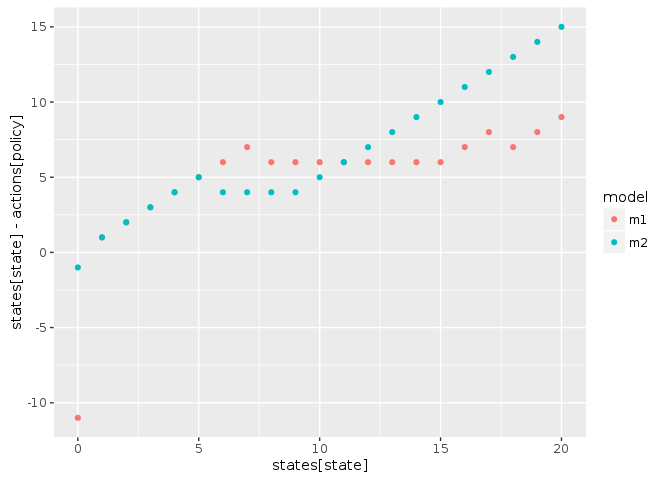
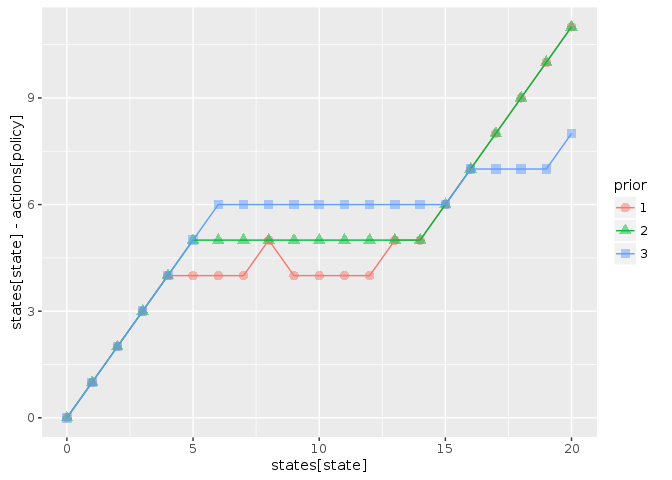
run new examples

diff --git a/inst/notebook/pomdp-learning.md b/inst/notebook/pomdp-learning.md
@@ -3,24 +3,10 @@
 
 
 ```r
-library("MDPtoolbox")
-```
-
-```
-## Loading required package: Matrix
-```
-
-```
-## Loading required package: linprog
-```
-
-```
-## Loading required package: lpSolve
-```
-
-```r
 library("appl")
+library("pomdpplus")
 library("ggplot2")
+library("tidyr")
 library("dplyr")
 ```
 
@@ -46,10 +32,6 @@ knitr::opts_chunk$set(cache = TRUE)
 ```
 
 
-```r
-source("pomdp_learning.R")
-```
-
 
 ## Problem definition
 
@@ -60,127 +42,132 @@ actions <- states
 obs <- states
 
 sigma_g <- sqrt(log(1 + 0.1 / 6)) # Scale the log-standard-deviation to result in similar variance to a uniform distribution of width 0.5
-sigma_m <- sigma_g
+sigma_m <- sigma_g 
 
 reward_fn <- function(x,h) pmin(x,h)
 discount <- 0.95
 
 
-
-Ks <-  seq(5, 20, length.out = 10)
-K_models <- lapply(Ks, function(K) 
-  function(x, h){
-     r <- 1
-     s <- pmax(x - h, 0)
-     s * exp(r * (1 - s / K) )
-  })
-
-models <- lapply(K_models, function(model) 
-    appl::fisheries_matrices(states = states, actions = actions, 
-                             observed_states = states, reward_fn = reward_fn,
-                             f = model, sigma_g = sigma_g, sigma_m = sigma_m))
+K1 <- function(x, h, r = 0.5, K = 10){
+  s <- pmax(x - h, 0)
+  s * exp(r * (1 - s / K) )
+}
 
 
-model_prior = rep(1, length(models)) / length(models)
+K2 <- function(x, h, r = 0.5, K = 15){
+  s <- pmax(x - h, 0)
+  s * exp(r * (1 - s / K) )
+}
+
+Ks <- list(K1, K2)
 ```
 
 
 
 ```r
-m1 <- fisheries_matrices(states, actions, obs, reward_fn, K_models[[2]], sigma_g, sigma_m)
-m2 <- fisheries_matrices(states, actions, obs, reward_fn, K_models[[9]], sigma_g, sigma_m)
+models <- lapply(Ks, function(f) fisheries_matrices(states, actions, obs, reward_fn, f, sigma_g, sigma_m))
 ```
-
-
-## POMDP solution, model 1
-
-
-```r
-soln_1 <- pomdp_solve(m1$transition, m1$observation, m1$reward, discount, precision = 1)
-```
-
-```
-## load time: 0.06 sec, init time: 0.09 sec, run time: 0.12 sec, final precision: 0.949057 end_condition:   target precision reached
-```
-
-```r
-soln_2 <- pomdp_solve(m2$transition, m2$observation, m2$reward, discount, precision = 1)
-```
-
-```
-## load time: 0.07 sec, init time: 0.2 sec, run time: 2.64 sec, final precision: 0.988588 end_condition:   target precision reached
-```
-
 
 
 ## Planning solution
 
-
-```r
-soln <- pomdp_planning(models, discount, model_prior, verbose = TRUE, mc.cores = 1L, precision = 1)
-```
-
-```
-## load time: 0.06 sec, init time: 0.07 sec, run time: 0.08 sec, final precision: 0.877313 end_condition:   target precision reached
-```
-
-```
-## load time: 0.07 sec, init time: 0.08 sec, run time: 0.12 sec, final precision: 0.949057 end_condition:   target precision reached
-```
-
-```
-## load time: 0.06 sec, init time: 0.08 sec, run time: 0.15 sec, final precision: 0.919978 end_condition:   target precision reached
-```
-
-```
-## load time: 0.06 sec, init time: 0.11 sec, run time: 0.21 sec, final precision: 0.954564 end_condition:   target precision reached
-```
-
-```
-## load time: 0.07 sec, init time: 0.13 sec, run time: 0.31 sec, final precision: 0.985769 end_condition:   target precision reached
-```
-
-```
-## load time: 0.06 sec, init time: 0.12 sec, run time: 0.52 sec, final precision: 0.973586 end_condition:   target precision reached
-```
-
-```
-## load time: 0.07 sec, init time: 0.13 sec, run time: 0.92 sec, final precision: 0.942936 end_condition:   target precision reached
-```
-
-```
-## load time: 0.06 sec, init time: 0.14 sec, run time: 1.43 sec, final precision: 0.989347 end_condition:   target precision reached
-```
-
-```
-## load time: 0.07 sec, init time: 0.15 sec, run time: 2.47 sec, final precision: 0.988588 end_condition:   target precision reached
-```
-
-```
-## load time: 0.07 sec, init time: 0.15 sec, run time: 1.65 sec, final precision: 0.983279 end_condition:   target precision reached
-```
-
+Compute Q matrices using pomdpsol for each model (intensive).  Since we do not specify a prior belief over states, uses default assumption of uniform belief over states.
 
 
 ```r
-df <- 
-  rbind(data.frame(model = "m1", soln_1),
-      data.frame(model = "m2", soln_2),
-      data.frame(model = "unif", soln))
+alphas <- sarsop_plus(models, discount, precision = .1)
+```
 
-ggplot(df, aes(states[state], states[state] - actions[policy], col = model, pch = model)) + 
+```
+## load time: 0.04 sec, init time: 0.15 sec, run time: 0.52 sec, final precision: 0.0958766 end_condition:   target precision reached
+```
+
+```
+## load time: 0.04 sec, init time: 0.15 sec, run time: 23.55 sec, final precision: 0.0999691 end_condition:   target precision reached
+```
+
+
+We can compare results for a different priors over states.  For simplicity of interpretation, we assume the model is known to be model 2 (model prior `(0,1)`)
+As expected, the policy is much more conservative when prior belief is lower!  
+
+
+```r
+low <-  compute_plus_policy(alphas, models, c(0, 1), models[[2]]$observation[,4,1])
+ave <-  compute_plus_policy(alphas, models, c(0, 1), models[[2]]$observation[,10,1])
+unif <- compute_plus_policy(alphas, models, c(0, 1))
+high <- compute_plus_policy(alphas, models, c(0, 1), models[[2]]$observation[,15,1])
+df <- dplyr::bind_rows(low, ave, unif, high, .id = "prior")
+
+ggplot(df, aes(states[state], states[state] - actions[policy], col = prior, pch = prior)) + 
   geom_point(alpha = 0.5, size = 3) + 
-  geom_line() + 
-  ylim(0,15)
+  geom_line()
 ```
 
-```
-## Warning: Removed 5 rows containing missing values (geom_point).
+![](pomdp-learning_files/figure-html/unnamed-chunk-5-1.png)<!-- -->
+
+
+Use alphas to compute policy given model priors, for comparison:
+
+
+```r
+compare_policies <- function(alphas, models){
+  low <-  compute_plus_policy(alphas, models, c(1, 0))
+  unif <- compute_plus_policy(alphas, models, c(1/2, 1/2))
+  high <- compute_plus_policy(alphas, models, c(0, 1))
+  dplyr::bind_rows(low, unif, high, .id = "prior")
+}
+
+
+df <- compare_policies(alphas, models)
+ggplot(df, aes(states[state], states[state] - actions[policy], col = prior, pch = prior)) + 
+  geom_point(alpha = 0.5, size = 3) + 
+  geom_line()
 ```
 
-```
-## Warning: Removed 5 rows containing missing values (geom_path).
+![](pomdp-learning_files/figure-html/unnamed-chunk-6-1.png)<!-- -->
+
+
+```r
+set.seed(1234)
+out <- sim_plus(models = models, discount = discount,
+                x0 = 2, a0 = 1, Tmax = 100, 
+                true_model = models[[2]], 
+                alphas = alphas)
 ```
 
-![](pomdp-learning_files/figure-html/unnamed-chunk-7-1.png)<!-- -->
+
+```r
+out$df %>% 
+  dplyr::select(-value) %>% 
+  tidyr::gather(variable, stock, -time) %>% 
+  ggplot(aes(time, stock, color = variable)) + geom_line()
+```
+
+![](pomdp-learning_files/figure-html/unnamed-chunk-8-1.png)<!-- -->
+
+Belief is never stationary (examining belief distributions after 75 iterations):
+
+
+```r
+Tmax <-length(out$state_posterior[,1])
+out$state_posterior %>% data.frame(time = 1:Tmax) %>% 
+  tidyr::gather(state, probability, -time, factor_key =TRUE) %>% 
+  dplyr::mutate(state = as.numeric(state)) %>% 
+  dplyr::filter(time > 75) %>% 
+  ggplot(aes(state, probability, group = time, alpha = time)) + geom_line()
+```
+
+![](pomdp-learning_files/figure-html/unnamed-chunk-9-1.png)<!-- -->
+
+Whereas model posterior converges more quickly to the true model (examining first 15 probabilities already shows model 2 probability nearly 1)
+
+
+```r
+out$model_posterior %>% data.frame(time = 1:Tmax) %>% 
+  tidyr::gather(model, probability, -time, factor_key =TRUE) %>% 
+  dplyr::filter(time < 50) %>% 
+  ggplot(aes(model, probability, group = time, alpha = time)) + geom_point()
+```
+
+![](pomdp-learning_files/figure-html/unnamed-chunk-10-1.png)<!-- -->
 
